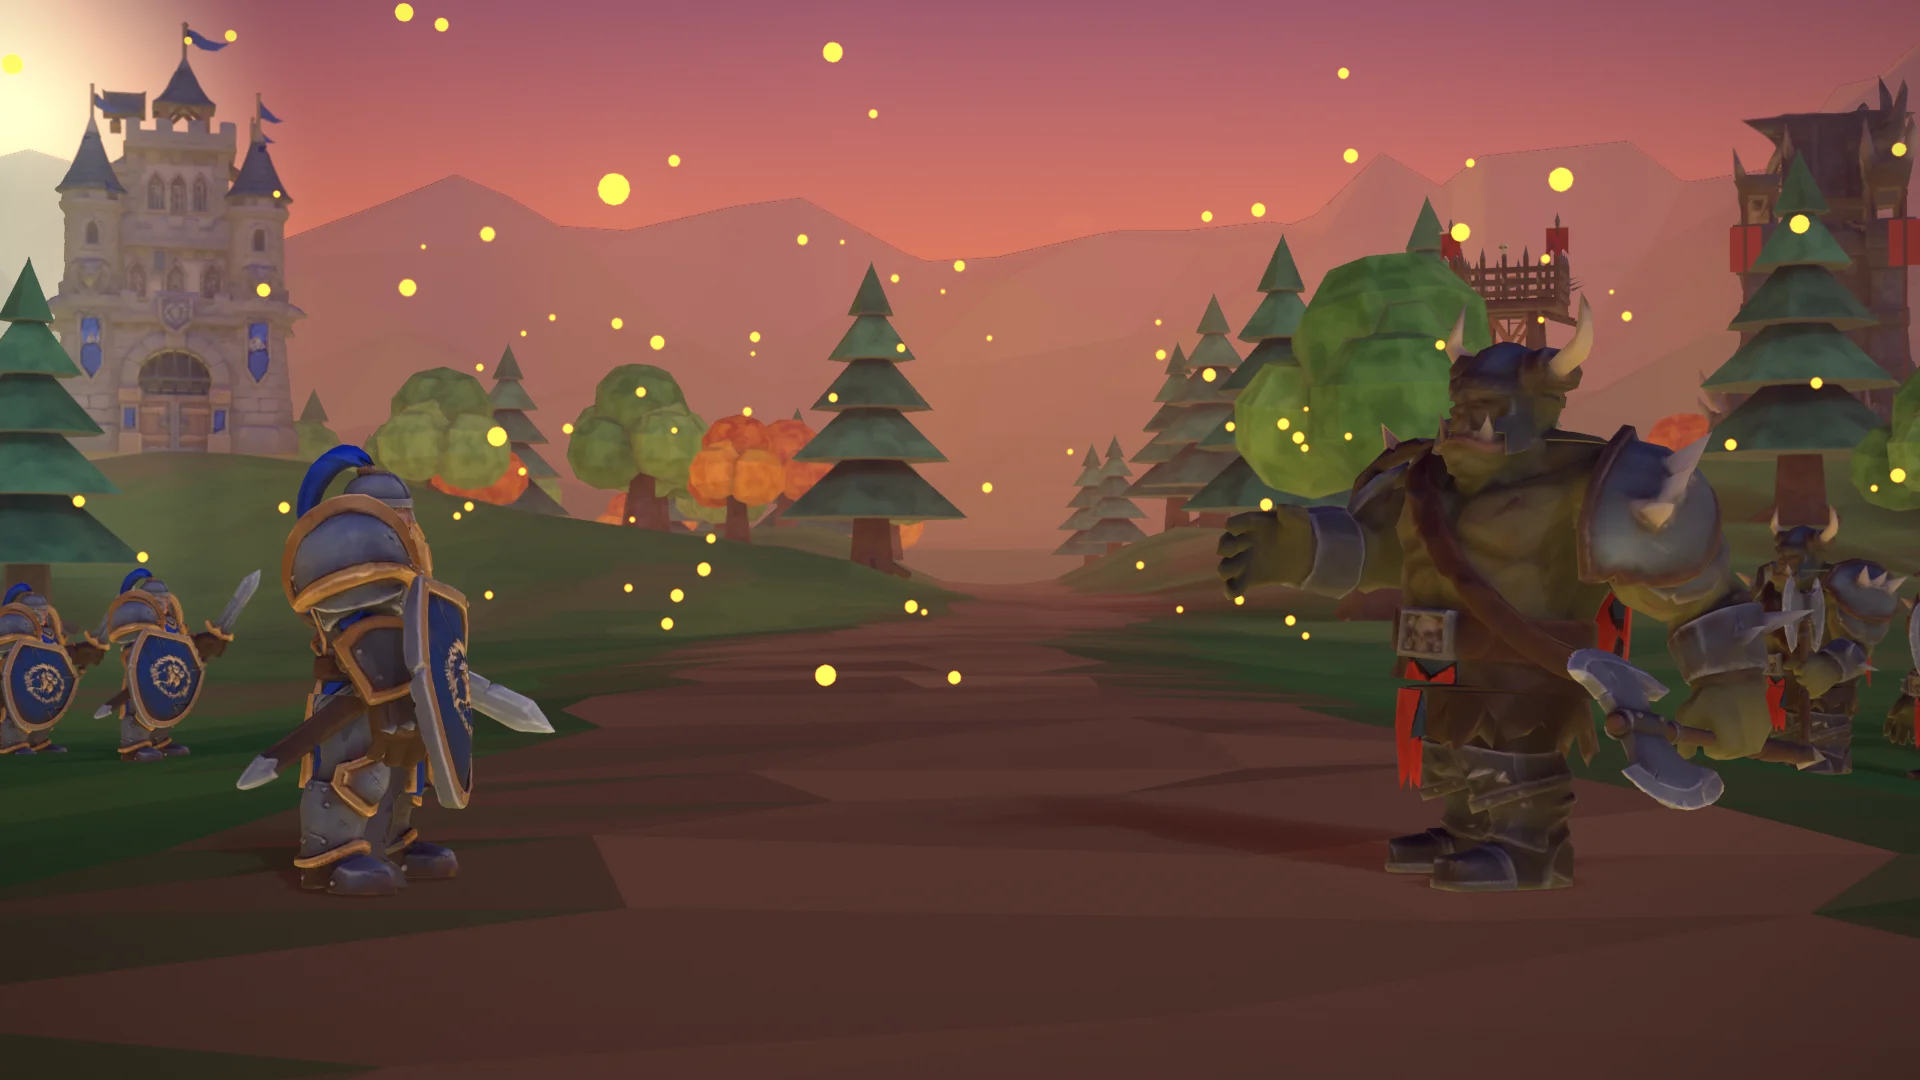
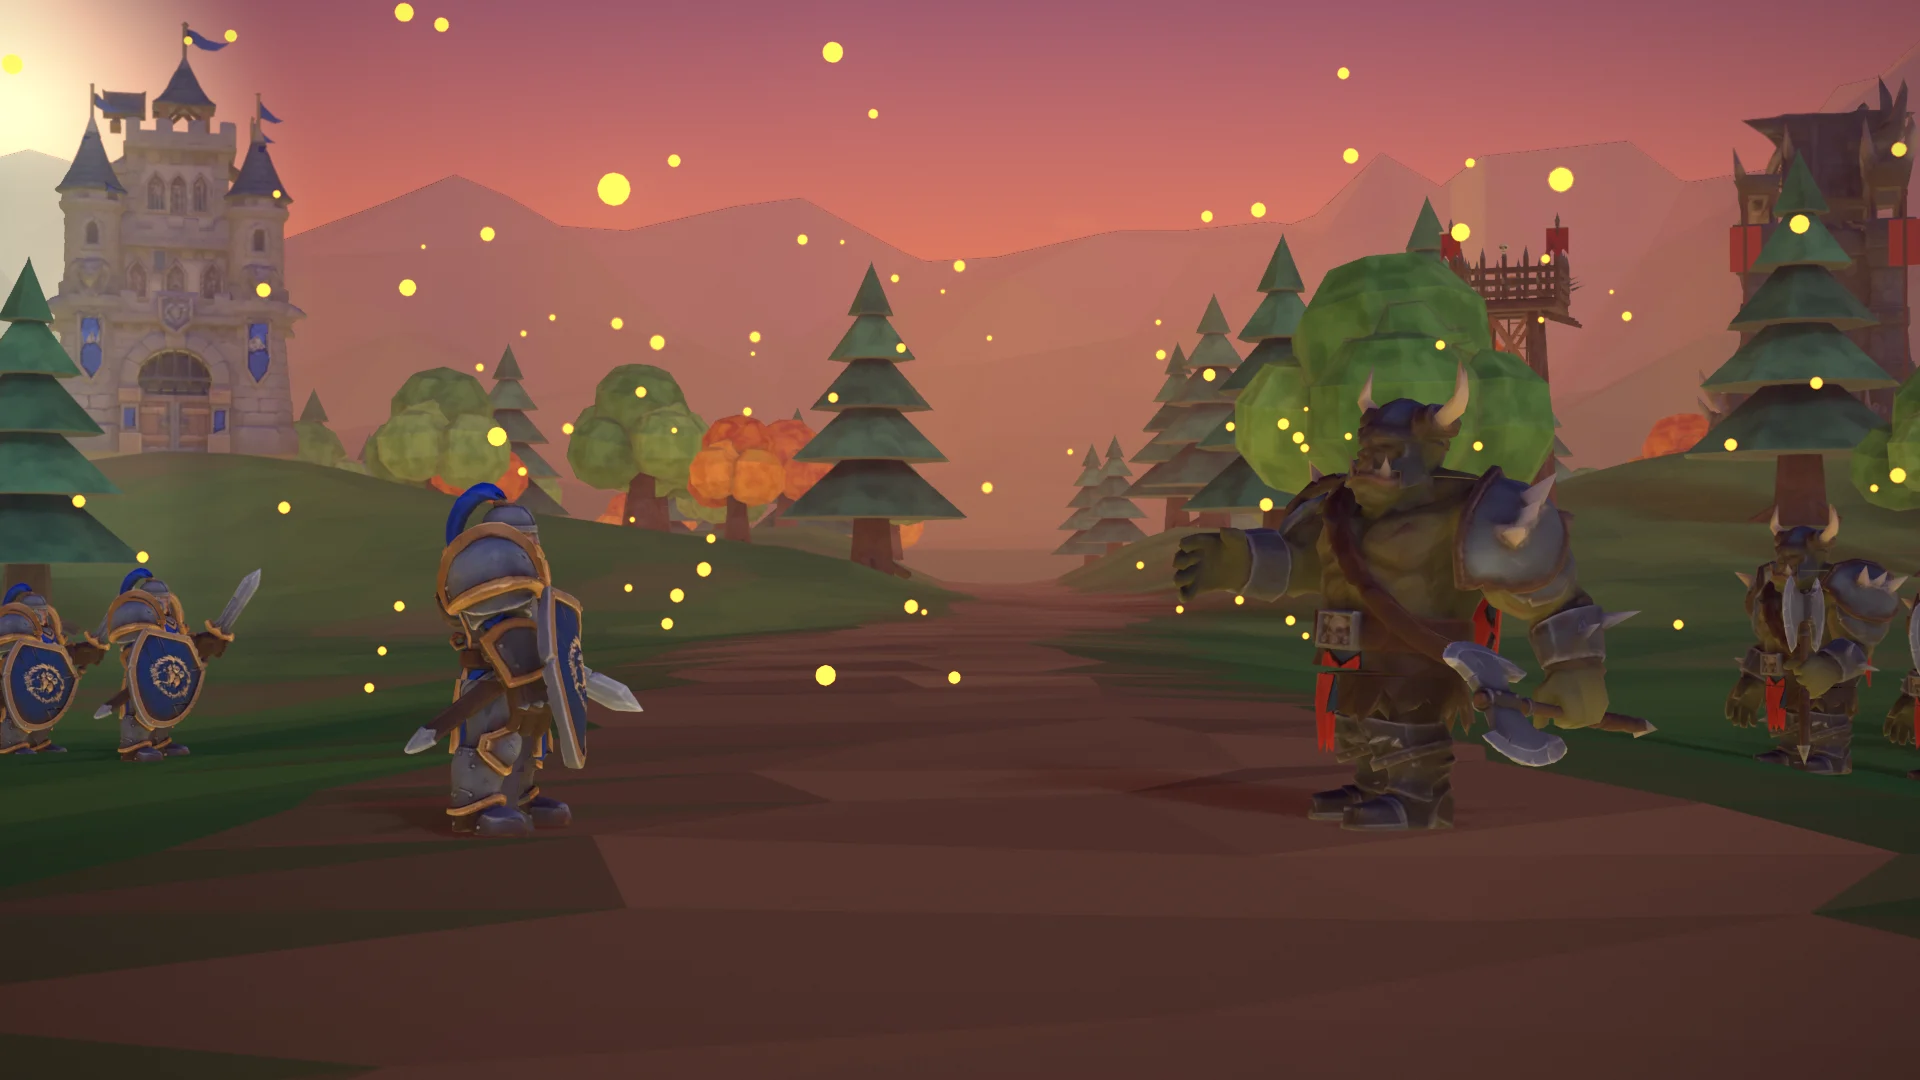
Evolucao do Centro p/ nivel 2 custa 600 ouro, 300 madeira, 200 pedra; duelistas da tela de loading mais longe da camera
Testes e fixtures de campanha atualizados com o novo custo. loading.webp re-renderizado.

Changed region(s): [[0.5938, 0.275, 0.9688, 0.825], [0.125, 0.3972, 0.3438, 0.825]]

diff --git a/tests/unit/twoHq.test.js b/tests/unit/twoHq.test.js
@@ -120,7 +120,7 @@ describe('2 Centros: UPGRADE_HQ e CANCEL_UPGRADE_HQ em qualquer um', () => {
     issue(gm, { type: CMD.UPGRADE_HQ, playerId: 0, buildingId: colony.id });
     expect(colony.tierUpgrade).not.toBeNull();
     expect(first.tierUpgrade).toBeNull();
-    expect(gm.getPlayer(0).resources.gold).toBe(before.gold - 667);
+    expect(gm.getPlayer(0).resources.gold).toBe(before.gold - 600);
     seconds(gm, 61);
     expect(colony.tier).toBe(2);
     expect(colony.maxHp).toBe(HQ_TIER_HP[2]);
@@ -138,7 +138,7 @@ describe('2 Centros: UPGRADE_HQ e CANCEL_UPGRADE_HQ em qualquer um', () => {
     issue(gm, { type: CMD.UPGRADE_HQ, playerId: 0, buildingId: first.id });
     seconds(gm, 20);
     issue(gm, { type: CMD.UPGRADE_HQ, playerId: 0, buildingId: colony.id });
-    expect(gm.getPlayer(0).resources.gold).toBe(g0 - 1334);
+    expect(gm.getPlayer(0).resources.gold).toBe(g0 - 1200);
     seconds(gm, 41); // o primeiro (60 s) conclui; o segundo (começou 20 s depois) ainda não
     expect(first.tier).toBe(2);
     expect(colony.tier).toBe(1);
@@ -157,7 +157,7 @@ describe('2 Centros: UPGRADE_HQ e CANCEL_UPGRADE_HQ em qualquer um', () => {
     issue(gm, { type: CMD.CANCEL_UPGRADE_HQ, playerId: 0, buildingId: colony.id });
     expect(colony.tierUpgrade).toBeNull();
     expect(first.tierUpgrade).not.toBeNull();
-    expect(gm.getPlayer(0).resources.gold).toBe(g0 - 667);
+    expect(gm.getPlayer(0).resources.gold).toBe(g0 - 600);
     seconds(gm, 51);
     expect(first.tier).toBe(2);
     expect(colony.tier).toBe(1);

diff --git a/tests/unit/tiers.test.js b/tests/unit/tiers.test.js
@@ -38,7 +38,7 @@ describe('tiers.js (dados puros)', () => {
   });
 
   it('getHqUpgradeCost: nível 2 e 3 batem com a spec', () => {
-    expect(getHqUpgradeCost(2)).toEqual({ gold: 667, wood: 267, stone: 200, time: 60 });
+    expect(getHqUpgradeCost(2)).toEqual({ gold: 600, wood: 300, stone: 200, time: 60 });
     expect(getHqUpgradeCost(3)).toEqual({ gold: 1333, wood: 533, stone: 400, oil: 266, time: 90 });
     expect(getHqUpgradeCost(4)).toBeNull();
   });
@@ -59,8 +59,8 @@ describe('Building.startTierUpgrade / CMD.UPGRADE_HQ (integração)', () => {
 
     expect(hq.tierUpgrade).not.toBeNull();
     const before = { ...owner.resources };
-    expect(before.gold).toBe(5000 - 667);
-    expect(before.wood).toBe(5000 - 267);
+    expect(before.gold).toBe(5000 - 600);
+    expect(before.wood).toBe(5000 - 300);
     expect(before.stone).toBe(5000 - 200);
 
     runTicks(gm, 60 - SIM_DT); // quase no fim: ainda não concluiu

diff --git a/tests/unit/extraHq.test.js b/tests/unit/extraHq.test.js
@@ -217,7 +217,7 @@ describe('Centro extra: funciona como Centro (entrega, treino, upgrade, derrota)
     expect(gm.getUnitsOf(0).length).toBe(n0 + 1);
     const g0 = gm.getPlayer(0).resources.gold;
     issue(gm, { type: CMD.UPGRADE_HQ, playerId: 0, buildingId: b.id });
-    expect(g0 - gm.getPlayer(0).resources.gold).toBe(667);
+    expect(g0 - gm.getPlayer(0).resources.gold).toBe(600);
     seconds(gm, 61);
     expect(b.tier).toBe(2);
     expect(b.maxHp).toBe(HQ_TIER_HP[2]);

diff --git a/tests/fixtures/campaign-playthrough/war-alliance-11-porto-albor.js b/tests/fixtures/campaign-playthrough/war-alliance-11-porto-albor.js
@@ -81,7 +81,7 @@ const OBRAS = {
   stable: { gold: 200, wood: 60, stone: 40 }, aviary: { gold: 300, wood: 150, stone: 60 }
 };
 /** Evolução do Marco a nível 2 (tiers.js: HQ_UPGRADE_COST[2]). */
-const MARCO_LV2 = { gold: 667, wood: 267, stone: 200 };
+const MARCO_LV2 = { gold: 600, wood: 300, stone: 200 };
 
 /** Serraria junto da árvore mais próxima da base. */
 function camp(c) {

diff --git a/src/data/tiers.js b/src/data/tiers.js
@@ -33,7 +33,7 @@ export const HQ_TIER_GOLD_MULT = { 1: 1.0, 2: 1.10, 3: 1.20 };
  * Custo/tempo do upgrade para o nível indicado (2 ou 3). F4-07a: `oil` é cobrado.
  */
 export const HQ_UPGRADE_COST = {
-  2: { gold: 667, wood: 267, stone: 200, time: 60 },
+  2: { gold: 600, wood: 300, stone: 200, time: 60 },
   3: { gold: 1333, wood: 533, stone: 400, oil: 266, time: 90 }
 };
 

diff --git a/tests/fixtures/campaign-playthrough/war-horde-11-brasa-alta.js b/tests/fixtures/campaign-playthrough/war-horde-11-brasa-alta.js
@@ -81,7 +81,7 @@ function keepWorking(c) {
 }
 
 /** Evolução do Marco a nível 2 (tiers.js: HQ_UPGRADE_COST[2]). */
-const MARCO_LV2 = { gold: 667, wood: 267, stone: 200 };
+const MARCO_LV2 = { gold: 600, wood: 300, stone: 200 };
 
 /** Serraria junto da árvore mais próxima da base. */
 function mill(c) {

diff --git a/tools/blender/render_art2d.py b/tools/blender/render_art2d.py
@@ -206,10 +206,10 @@ def build_loading(lib, scale, samples):
     place_ground(lib, terrain, 'watchtower', -66, 105, 20, 1.3)
     place_ground(lib, terrain, 'orc_watchtower', 24, 108, -20, 1.4)
     # duelo: heróis em primeiro plano, de perfil, um de cada lado
-    kz = SC.ground_z(terrain, -2.7, 7.6)
-    lib.instance('knight', (-2.7, 7.6, kz), 78, 1.0, 'fight_0.3')
-    gz = SC.ground_z(terrain, 2.7, 8.0)
-    lib.instance('grunt', (2.7, 8.0, gz), -80, 1.0, 'fight_0.3')
+    kz = SC.ground_z(terrain, -2.7, 10.6)
+    lib.instance('knight', (-2.7, 10.6, kz), 78, 1.0, 'fight_0.3')
+    gz = SC.ground_z(terrain, 2.7, 11.0)
+    lib.instance('grunt', (2.7, 11.0, gz), -80, 1.0, 'fight_0.3')
     # tropas ao fundo, em filas
     for i in range(5):
         place_ground(lib, terrain, 'knight', -9 - i * 2.2, 22 + i * 1.8 + rng.uniform(-0.5, 0.5), 80 + rng.uniform(-10, 10), 1.0, 'idle')
@@ -218,7 +218,7 @@ def build_loading(lib, scale, samples):
         place_ground(lib, terrain, 'axethrower', 14 + i * 2.0, 30 + i * 1.6 + rng.uniform(-0.5, 0.5), -80 + rng.uniform(-10, 10), 1.0, 'idle')
     scatter_trees(lib, terrain, rng, 240, ((-150, 150), (-10, 250)), [(-44, 122, 24), (46, 130, 24)], lambda x, y: (y < 70 and abs(x) < 32) or y < 8)
     SC.scatter_embers(rng, 120, ((-9, 9), (2, 34), (0.5, 6.0)), size=(0.025, 0.07))
-    return make_cam((0.3, -3.6, 1.3), (0.0, 12.0, 1.55), 44.0, focus=11.5, fstop=3.5)
+    return make_cam((0.3, -3.6, 1.3), (0.0, 12.0, 1.55), 44.0, focus=14.5, fstop=3.5)
 
 
 BUILDERS = {'menu': build_menu, 'loading': build_loading}
